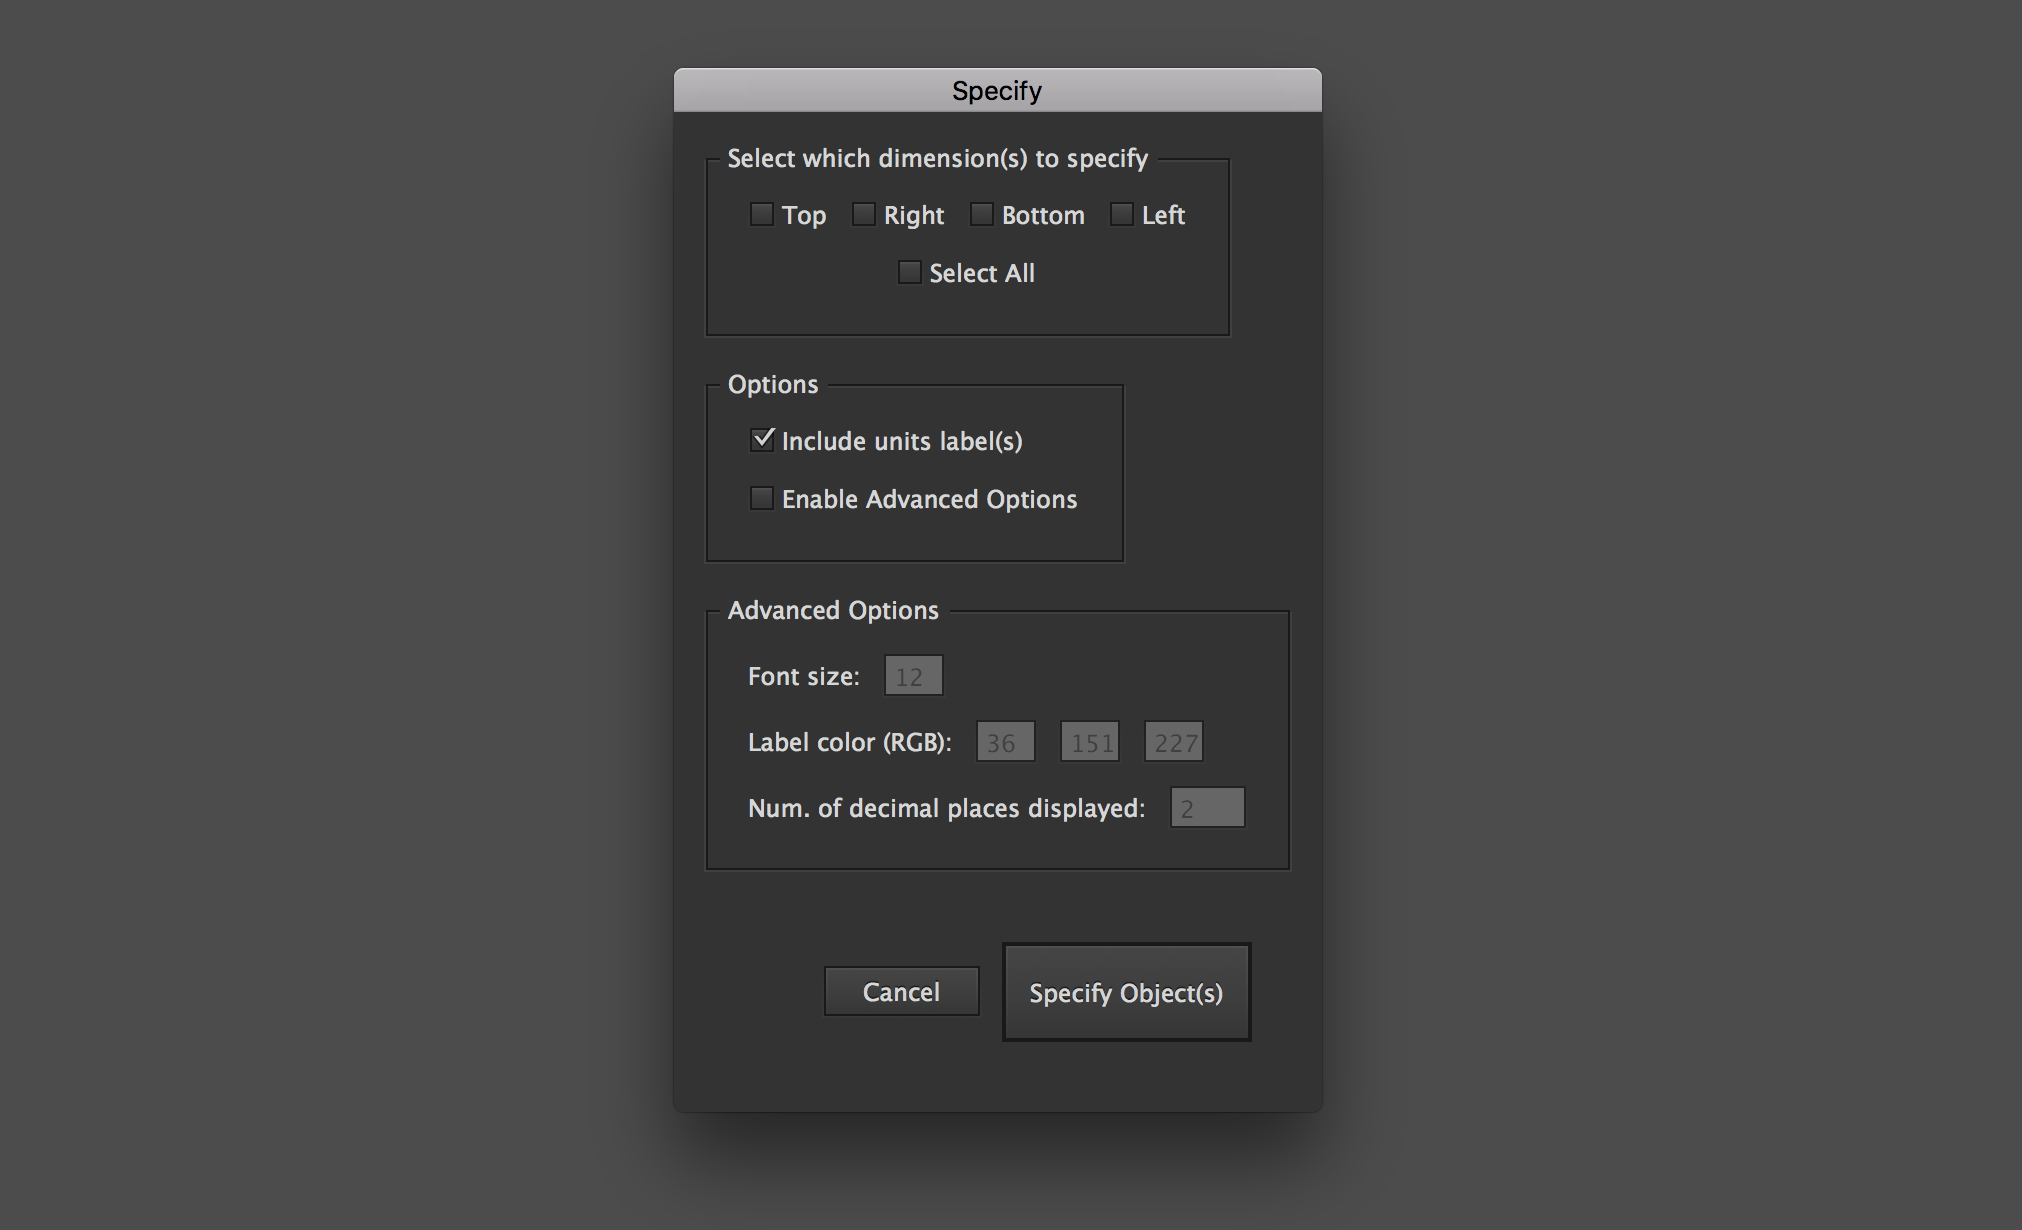
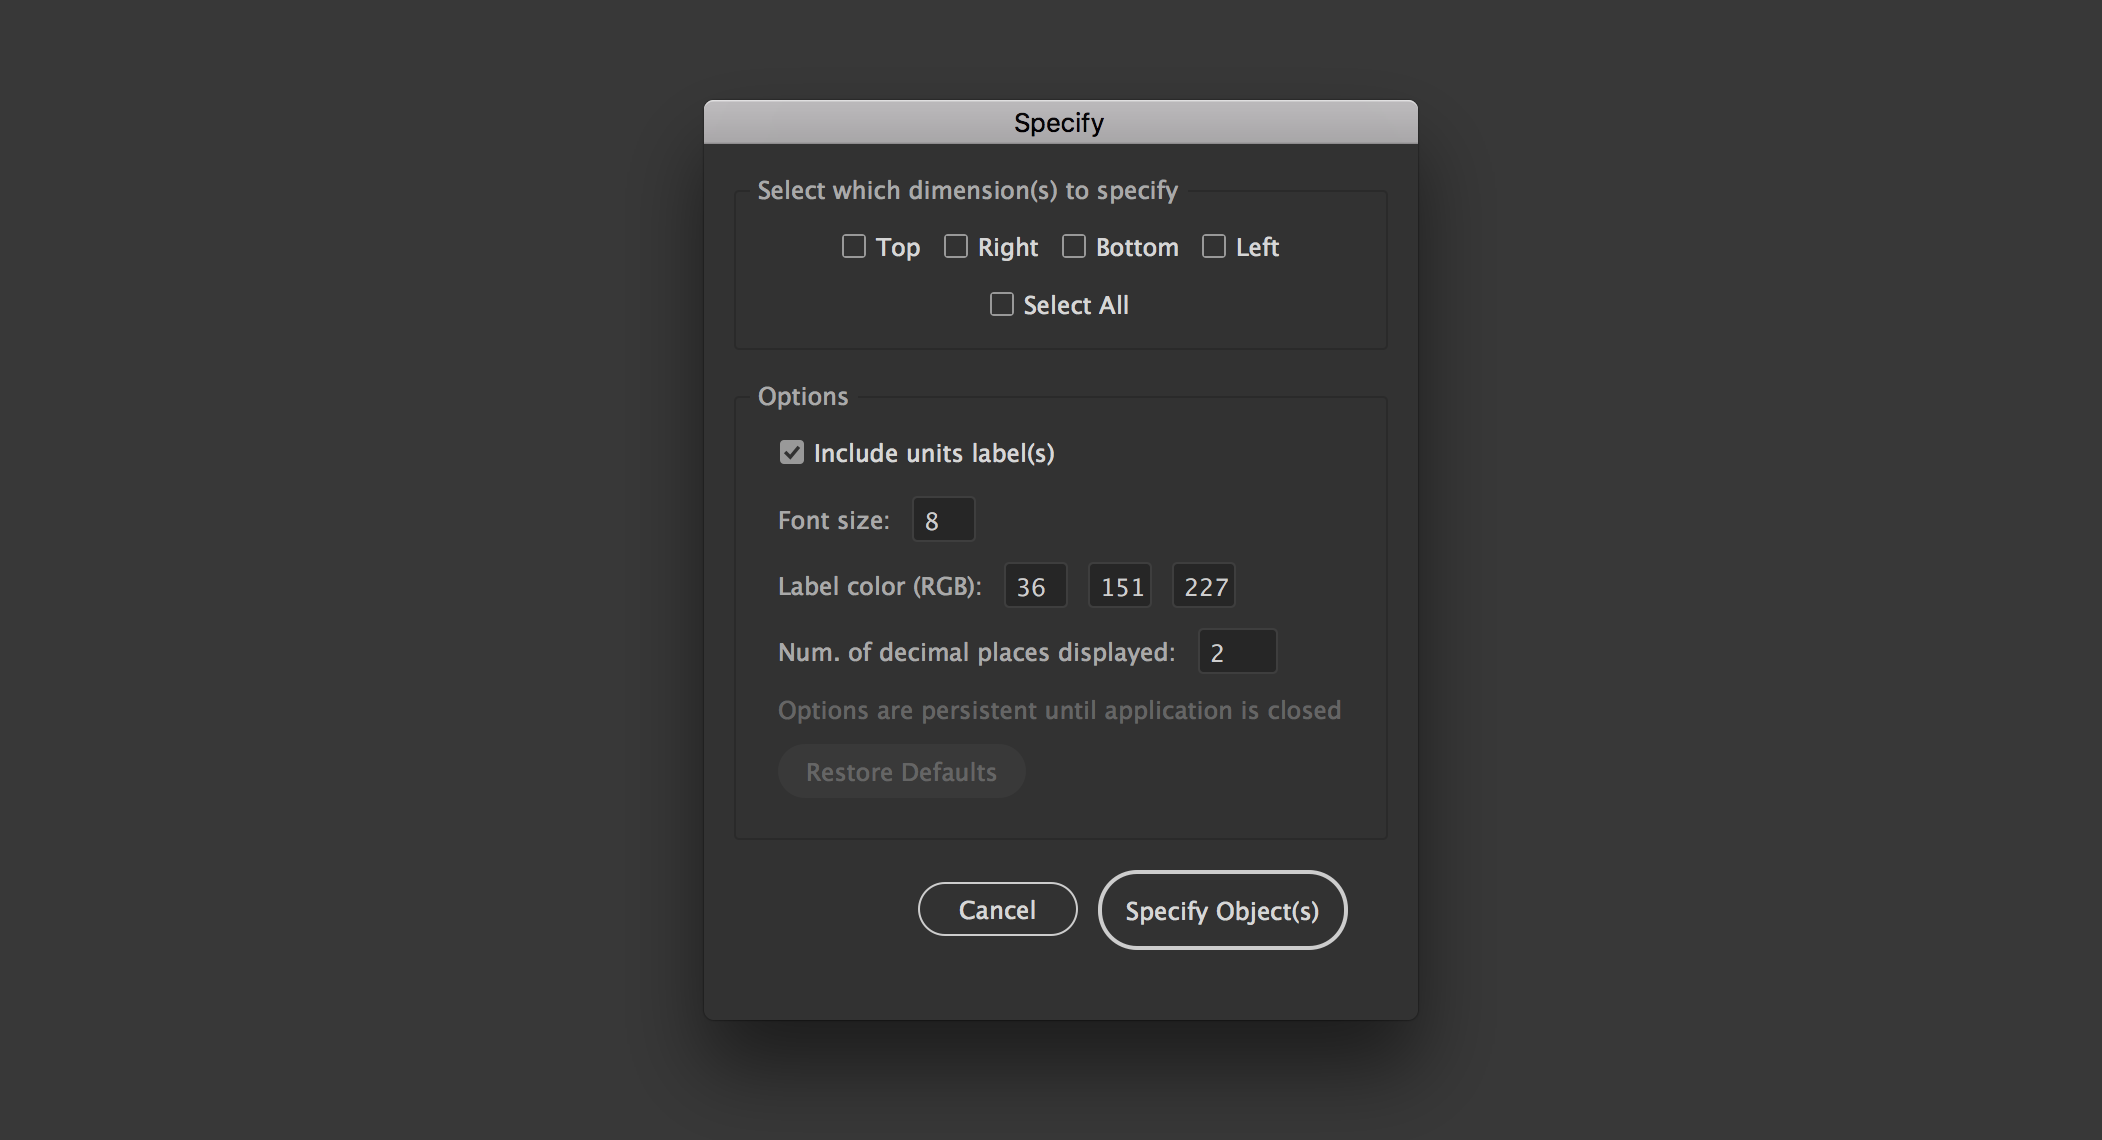
Updated README to reflect persistent options. Updated dialog screenshot

diff --git a/README.md b/README.md
@@ -2,7 +2,7 @@
 Illustrator script to specify the dimensions single or multiple objects, or to specify the dimensions between two objects.
 
 [![GitHub release](https://img.shields.io/github/release/adamdehaven/Specify.svg?maxAge=3600)](https://github.com/adamdehaven/Specify/archive/master.zip) 
-[![GitHub commits](https://img.shields.io/github/commits-since/adamdehaven/Specify/v1.1.svg?maxAge=3600)](https://github.com/adamdehaven/Specify/compare/v1.1...master) 
+[![GitHub commits](https://img.shields.io/github/commits-since/adamdehaven/Specify/v1.2.svg?maxAge=3600)](https://github.com/adamdehaven/Specify/compare/v1.2...master) 
 [![GitHub issues](https://img.shields.io/github/issues/adamdehaven/Specify.svg?maxAge=3600)](https://github.com/adamdehaven/Specify/issues) 
 [![license](https://img.shields.io/github/license/adamdehaven/Specify.svg?maxAge=3600)](https://raw.githubusercontent.com/adamdehaven/Specify/master/LICENSE)
 
@@ -31,6 +31,8 @@ File > Scripts > Other Script...
 ```
 
 #### Specify Dialog
+After choosing to run the script, you will be presented with a dialog that allows you to choose which dimension(s) to specify. The dialog also allows you to edit the default options. **Any changes to the options panel will persist until you close the application (even if you run the script in another document).**
+
 ![specify-dialog-with-options](https://raw.githubusercontent.com/adamdehaven/Specify/master/specify-dialog-with-options.png)
 
 #### Dimension Single or Multiple Objects
